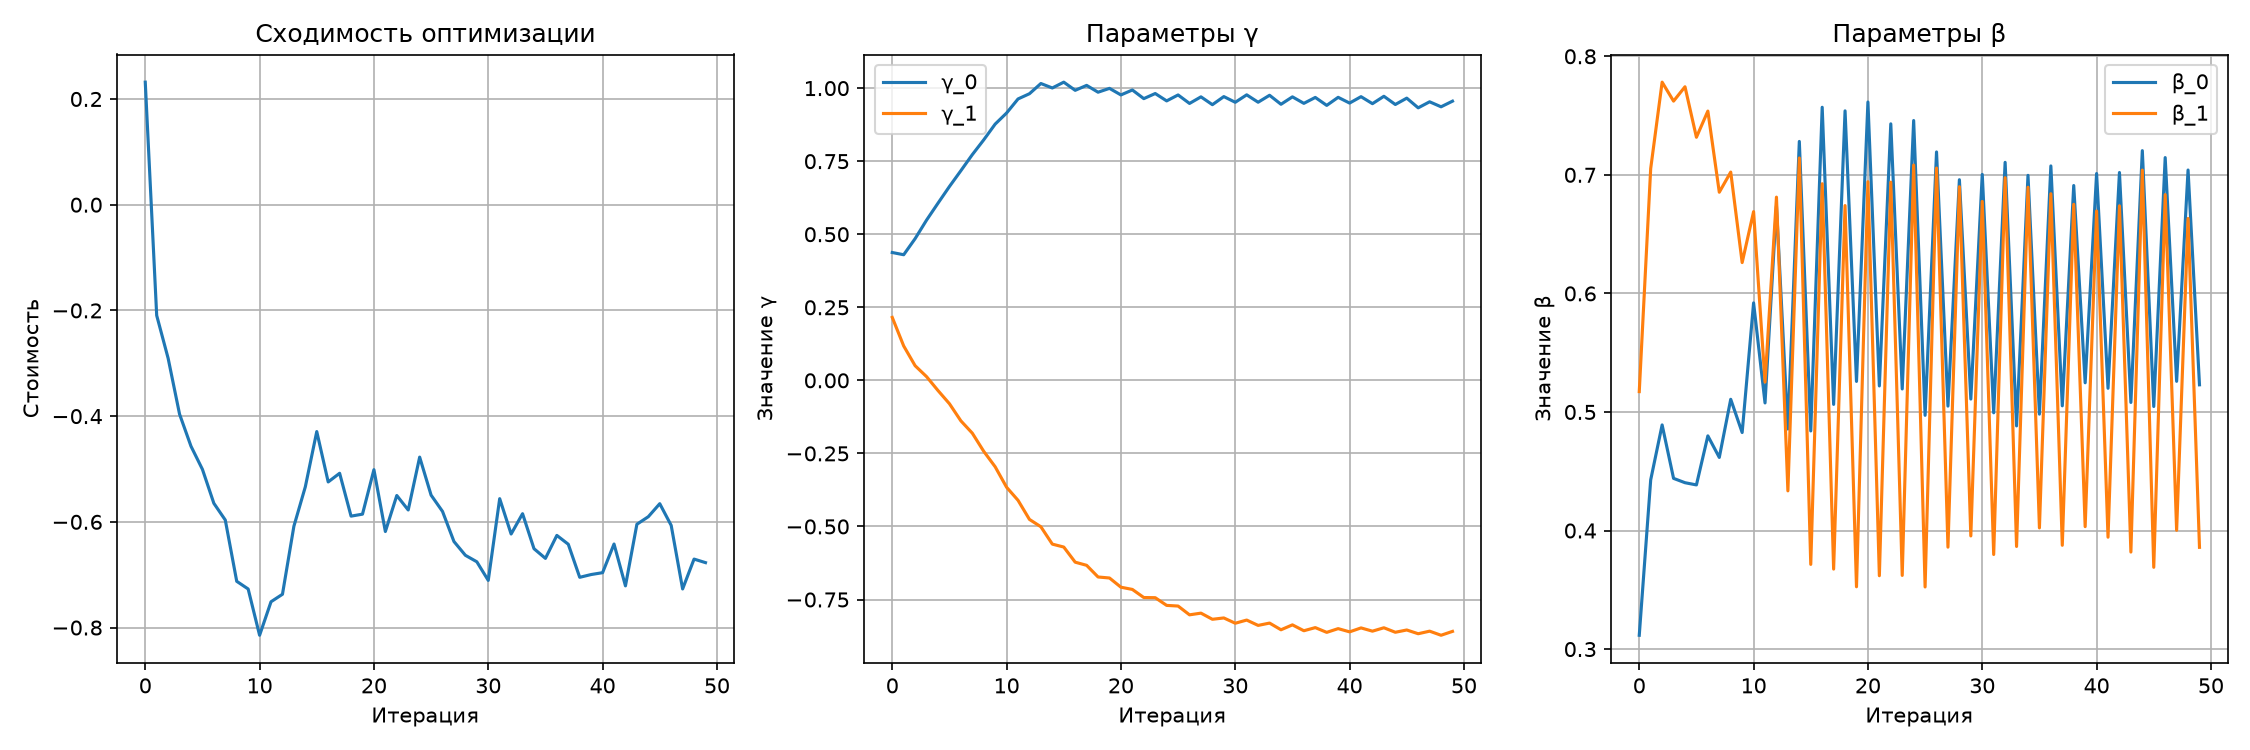
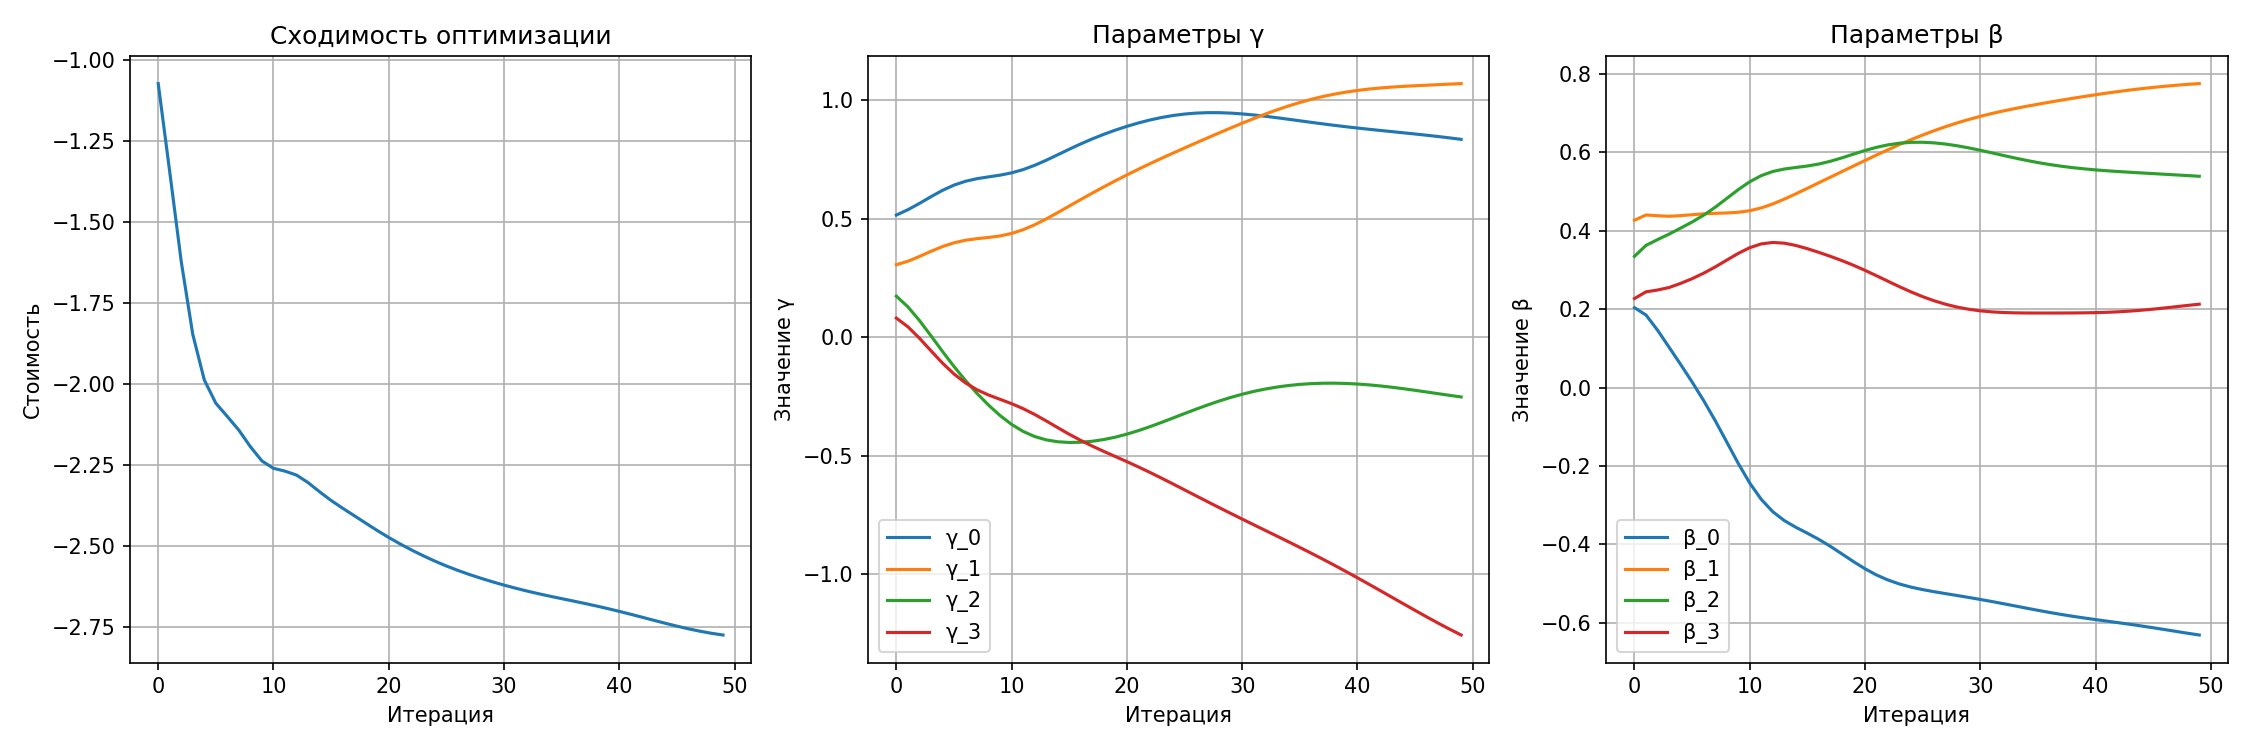
fix: merge artifacts

diff --git a/main.py b/main.py
@@ -67,11 +67,14 @@ def build_node_to_qubit_map(graph):
 
 
 def build_cost_hamiltonian_with_routes(G, routes, node_to_qubit, cycle_time=2):
+
+    half_cycle = cycle_time / 2
+    processed_edges = set()
     coeffs = []
     obs = []
     print("ПОСТРОЕНИЕ УЛУЧШЕННОГО ГАМИЛЬТОНИАНА")
     print("\n1. ШТРАФ ЗА ВРЕМЯ ПРОЕЗДА ПО МАРШРУТАМ")
-    
+
     for route in routes:
         path = route['path']
         priority = route['priority']
@@ -90,16 +93,16 @@ def build_cost_hamiltonian_with_routes(G, routes, node_to_qubit, cycle_time=2):
             qj = node_to_qubit[light_j]
 
             travel_time = G[light_i][light_j]['weight']
-            
+
             # <--- 2. Используем int() вместо round()
             # Нас интересует, в какой по счету полупериод прибывает машина
             half_cycles_int = int(travel_time / half_cycle)
-            
+
             base_weight = (priority * volume * travel_time) / 1000.0
-            
+
             if half_cycles_int % 2 == 0:
                 # Прибытие на четный такт (0, 2, 4...) -> фазы должны совпадать
-                weight = -base_weight 
+                weight = -base_weight
             else:
                 # Прибытие на нечетный такт (1, 3, 5...) -> фазы должны быть противоположны
                 weight = base_weight
@@ -110,11 +113,11 @@ def build_cost_hamiltonian_with_routes(G, routes, node_to_qubit, cycle_time=2):
 
             coeffs.append(weight)
             obs.append(qml.PauliZ(qi) @ qml.PauliZ(qj))
-            
+
             print(f"    Ребро {light_i}→{light_j}: вес = {weight:.3f}")
 
     print("\n2. ШТРАФ ЗА НАКОПЛЕНИЕ ЗАДЕРЖЕК")
-    
+
     for route in routes:
         path = route['path']
         for idx, node in enumerate(path):
@@ -126,9 +129,9 @@ def build_cost_hamiltonian_with_routes(G, routes, node_to_qubit, cycle_time=2):
                 print(f"    Перекресток {node} (позиция {idx+1}): штраф {position_weight:.3f}")
 
     print("\n3. ШТРАФ ЗА НЕПРАВИЛЬНУЮ ФАЗУ НА ВАЖНЫХ ПЕРЕКРЕСТКАХ")
-    
+
     important_nodes = [1, 2, 5, 6, 9]
-    
+
     for node in important_nodes:
         if node in node_to_qubit:
             qi = node_to_qubit[node]
@@ -138,15 +141,15 @@ def build_cost_hamiltonian_with_routes(G, routes, node_to_qubit, cycle_time=2):
             print(f"    Важный перекресток {node}: штраф {weight:.3f}")
 
     print("\n4. ШТРАФ ЗА ВСТРЕЧНЫЕ ПОТОКИ (КРАСНЫЙ-КРАСНЫЙ)")
-    
+
     opposite_edges = [(1, 5), (2, 6), (3, 7), (4, 8)]
-    
+
     for u, v in G.edges():
         qi = node_to_qubit[u]
         qj = node_to_qubit[v]
-        
+
         is_opposite = (u, v) in opposite_edges or (v, u) in opposite_edges
-        
+
         if is_opposite:
             weight = 0.15
             coeffs.append(weight)
@@ -158,7 +161,7 @@ def build_cost_hamiltonian_with_routes(G, routes, node_to_qubit, cycle_time=2):
             obs.append(qml.PauliZ(qi) @ qml.PauliZ(qj))
 
     print("\n5. БАЗОВЫЙ ШТРАФ (все ребра)")
-    
+
     for u, v in G.edges():
         qi = node_to_qubit[u]
         qj = node_to_qubit[v]
